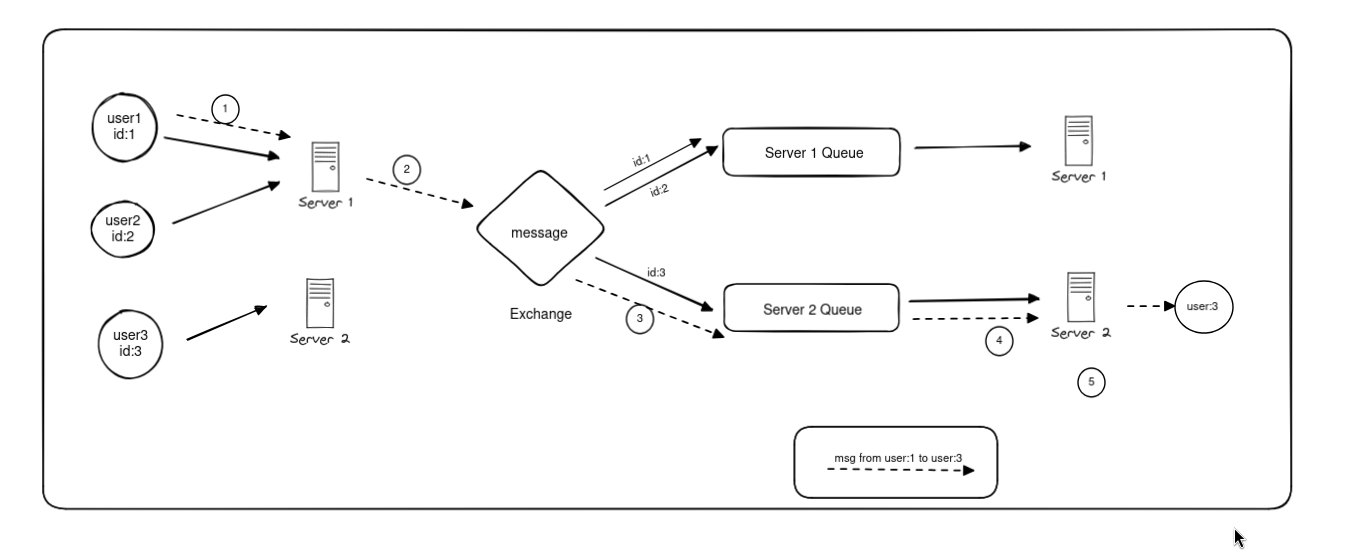
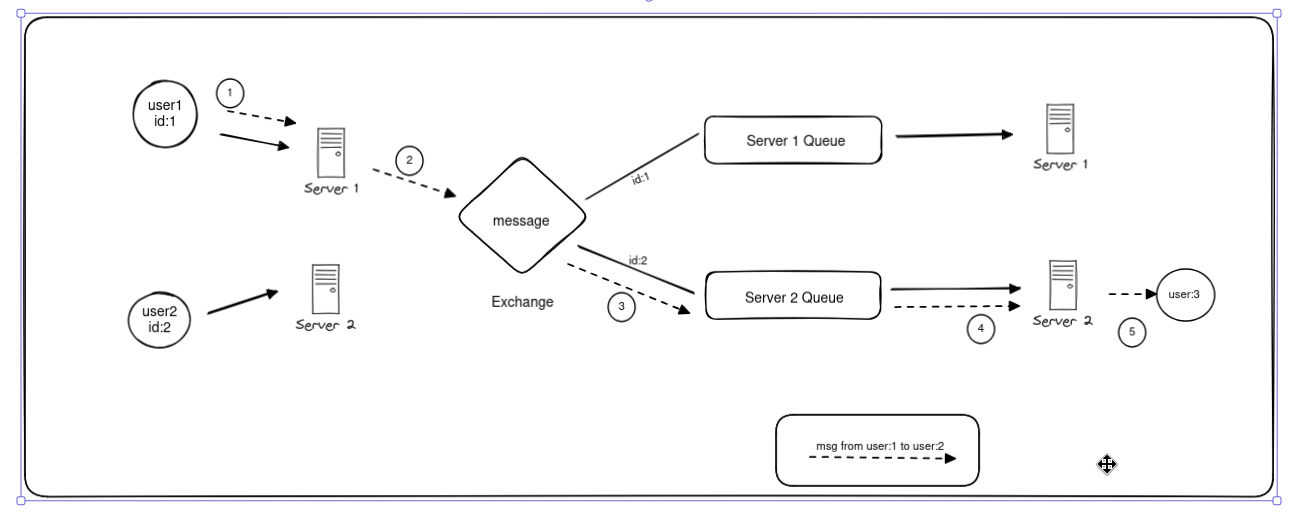
update: added timeline in readme

diff --git a/README.md b/README.md
@@ -20,6 +20,16 @@ The backend is distributed and horizontally scalable using RabbitMQ for message 
 - Server then sends the message to the user using websocket.
 - When a node is down, all the queues and bindings are automatically removed, saving resources and all the users are directed to other active nodes by the load balancer.
 
+### Message Flow
+
+1. User1 → Server1
+2. Server1 → RabbitMQ Exchange
+3. RabbitMQ Exchange → Server2's Queue
+4. Server2's Queue → Server2
+5. Server2 → User2
+
+![Message Handling Diagram](images/image2.png)
+
 ## Problems I Faced
 
 Majorly these 2 are the main problems i faced.
@@ -31,21 +41,16 @@ Majorly these 2 are the main problems i faced.
 2. How to know which server is user connected to?
     - Solved it by using a RabbitMQ queue and exchange. For user 1 on server 2, I bind the server queue to the exchange based on userId. I didn't want to add more stack like Redis to create a "Server to User" table, as this would add more complexity. So I came up with this solution. After discussing the potential performance impact of having so many bindings with the RabbitMQ team, i finalized this architecture.
 
-Here is the flow of a message from sender to reciever.
-![Message Handling Diagram](images/image2.png)
-
-3. **Time synchronization for bucketing**:
-    - **Problem**: For bucketing to work properly, servers need to sync time.
-
 ## Before Starting This I Did Not Know
 
 - How RabbitMQ works
 - AMQP Protocol
-- How different distributed systems coordinate.
+- How distributed systems coordinate.
 - Different Schema design patterns like bucket, outliers and approximation.
 - MongoDB ObjectId contains a timestamp, making them roughly sortable based on creation time, which is suitable for this case.
+- How DNS Records works.
 
-                        !! Now I know all of these! 😄
+                          !! Now I know all of these! 😄
 
 ## Journey - Timeline
 
@@ -90,6 +95,18 @@ Configured Nginx and WebSockets connection to Nginx, provided server unique ID t
 
 **Jan 12**  
 Learned about Prometheus-Grafana-Loki for metrics collection, logging, and visualization.
+
+**Jan 13**  
+Got the domain for Vibetalk.
+
+**Jan 21**  
+Deployed Complete Tech Stack:
+
+- RabbitMQ - [CloudAQMP](https://www.cloudamqp.com/)
+- Redis - Render Redis instance
+- MongoDb - MongoDB Atlas
+- Server - Render
+Learnt about DNS Records
 
 ## Quickstart
 

diff --git a/Notes.md b/Notes.md
@@ -38,6 +38,12 @@
 - Classic queues are limited by the node capacity itself and are not replicated to other nodes unless mirroring is explicitly configured.
 - Quorum queues have slightly more latency than classic queues.
 
+### DNS Records
+- **A Record**: Maps domain to IPv4 address
+- **AAAA Record**: Maps domain to IPv6 address
+- **CNAME Record**: Maps domain to another domain
+- **MX Record**: Directs emails to mail server
+
 ## Notes
 
 ### CSS Scrollbar
@@ -174,3 +180,11 @@ Learned about HTTP long polling transport, it holds the request until a message 
 
 **Tweet #5**  
 Now using Prometheus, Grafana, and Loki to monitor logs.
+
+
+**Tweet #6**
+### DNS Records
+- **A Record**: Maps domain to IPv4 address
+- **AAAA Record**: Maps domain to IPv6 address
+- **CNAME Record**: Maps domain to another domain
+- **MX Record**: Directs emails to mail server
